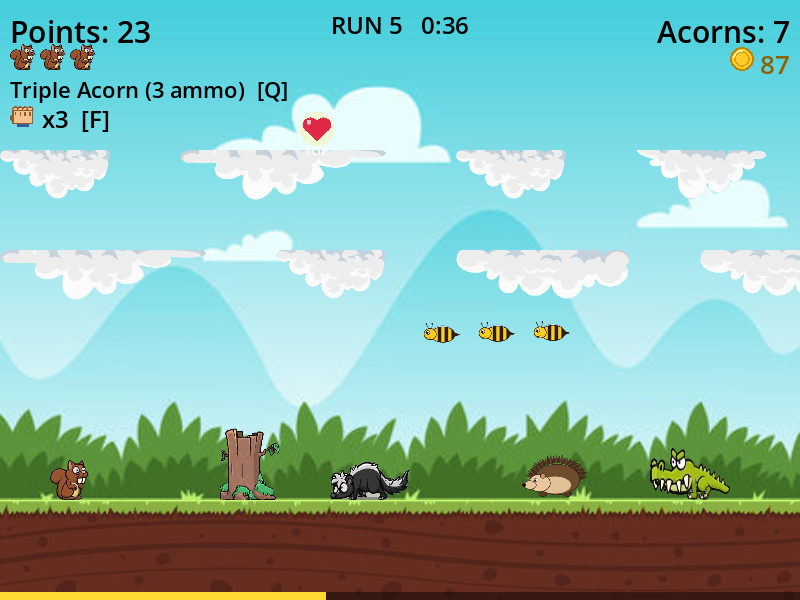
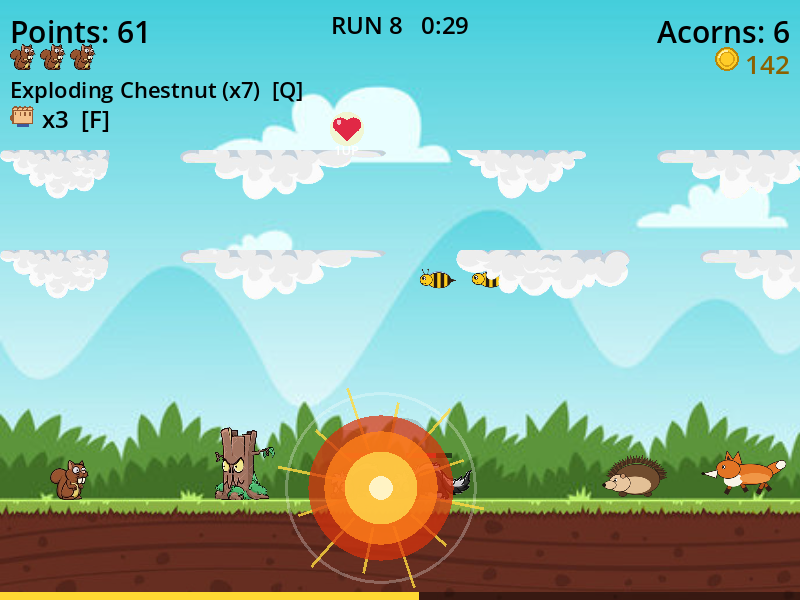
Exploding chestnut sold in packs of 10, optional cartoon bee, new README screenshot
Exploding Chestnut
- The Bouncing Chestnut now bounces, then explodes: on its third bounce or the
  first time it touches an enemy (or an enemy projectile), hurting everything
  within 75 px for 1 damage each; shields don't stop the blast
- It is a consumable: one purchase gives a pack of 10, buying again adds
  another 10, each throw uses one chestnut instead of an acorn, the HUD shows
  how many are left and the last one switches you back to acorns
- A 9-frame explosion animation is used when the optional local-only frames
  exist (godot/private/, see CREDITS.md); otherwise a new built-in cartoon
  explosion (shockwave ring, rays, layered fireball, smoke) plays
- Names and texts in French too

Bee
- A cartoon bumblebee with 4 flapping frames replaces the small synthesized bee
  when its local-only files are present (same fallback scheme as the boar)

Docs
- New README screenshot (run 8: an exploding chestnut, bees, hedgehog, fox, 1UP
  heart, HUD) captured with ONLY the repo's own art
- Local-only art listed in CREDITS.md; weapons list updated

Smoke test covers the chestnut explosion, the packs and both art configurations.

diff --git a/godot/README.md b/godot/README.md
@@ -27,7 +27,7 @@ A *game* is a series of **runs**:
 - **Coins** (gold coin counter, top right): skunk/bird 3, beaver/mole 5, croco 6, pterodactyl 8, bosses 40-80; `?` boxes 2, rainbow acorns 5, smashed trees 2, plus the run bonus.
 - **Lives** are earned by defeating a boss (+1), by finding the rare **1UP heart** on the top cloud row (+1, or 10 coins at the maximum), or in the shop (*Extra Life*, 60 coins). Maximum 6.
 - **Shop** (between runs, kept by a dwarf who describes each ware in a speech bubble and cheers when you buy): buy weapons (equipped on purchase), *Matrix Fist* (pack of 3), *Extra Life* and the *Bigger Pouch* upgrade (5 levels).
-- Weapons (see `scripts/weapons.gd`): Acorn, Triple Acorn, Boomerang, Bouncing Chestnut, Pinecone Bomb, Rainbow Beam, Homing Acorn. Not enough ammo for the equipped weapon falls back to a plain acorn.
+- Weapons (see `scripts/weapons.gd`): Acorn, Triple Acorn, Boomerang, Exploding Chestnut (bounces, then explodes with area damage; sold in packs of 10 and uses no acorns), Pinecone Bomb, Rainbow Beam, Homing Acorn. Not enough ammo for the equipped weapon falls back to a plain acorn.
 - You can stand on trees and on opponents; collision boxes follow the visible part of each sprite (`hitbox` fractions in `enemy.gd` / `tree_prop.gd`, measured from the art).
 
 ### Matrix Fist (key F)

diff --git a/CREDITS.md b/CREDITS.md
@@ -77,6 +77,8 @@ without it.
 | Local file | Replaces | Fallback |
 |---|---|---|
 | `private/shopkeeper.png` | the shop owner | the original dwarf |
+| `private/explosion_1..9.png` | the Exploding Chestnut's explosion animation (9 frames, an orange cartoon blast with a shockwave ring and debris) | the plain orange burst |
+| `private/bee_1..4.png` | the bee swarm: a cartoon bumblebee, 4 flapping frames | the small synthesized bee |
 | `private/boar_1..3.png` | the second boss (run 6, 12, ...) with a cleaver-wielding boar, 3 frames for a pseudo animation | a giant croco |
 
 The shopkeeper is the *Explorer character animated game sprite* from

diff --git a/README.md b/README.md
@@ -2,7 +2,7 @@
 
 A side-scrolling game starring a squirrel, built with Godot 4. The project lives in [`godot/`](godot/README.md).
 
-![Squirrel gameplay: run 5 with lives, coins, the equipped weapon, a 1UP heart and a hedgehog, skunk, croco, bees and a tree on the way](docs/screenshot.png)
+![Squirrel gameplay: run 8 - an exploding chestnut blows up two skunks while a swarm of bees flies overhead, with a hedgehog, a fox, a tree and a 1UP heart on the way; the HUD shows lives, coins, the weapon with its chestnut count and the Matrix Fist charges](docs/screenshot.png)
 
 ```bash
 make run     # play from source (windowed)
